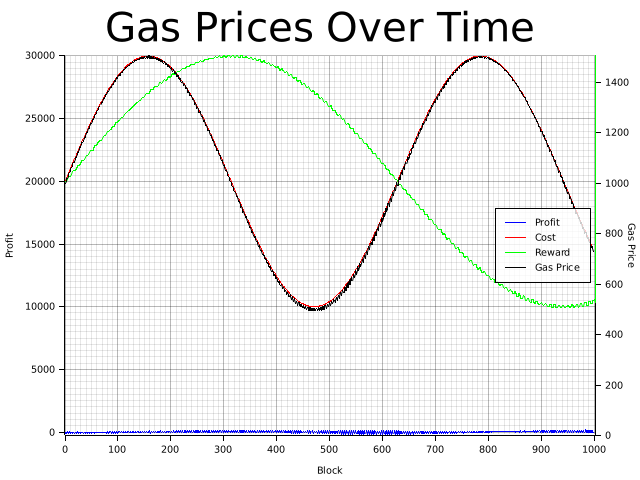
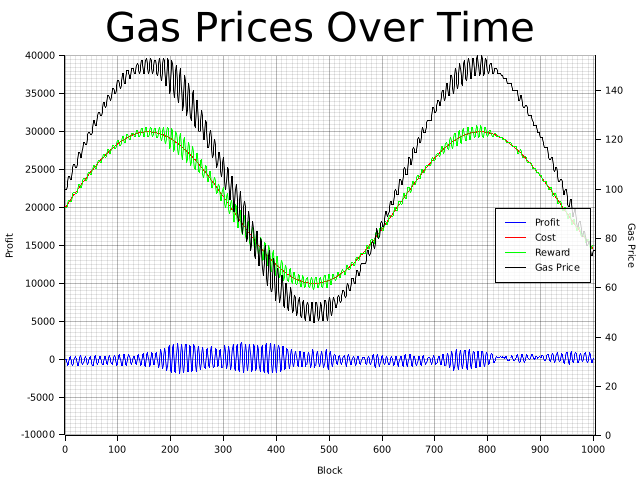
Add p value

Changed region(s): [[0.0312, 0.0938, 1.0, 0.9688], [0.0312, 0.0938, 0.0625, 0.125]]

diff --git a/crates/gas_price_testground/src/main.rs b/crates/gas_price_testground/src/main.rs
@@ -3,6 +3,7 @@ use std::cmp::max;
 struct Algorithm {
     amount: u64,
     min: u64,
+    p_value_factor: u64,
 }
 
 impl Algorithm {
@@ -15,12 +16,18 @@ impl Algorithm {
         capacity: u64,
     ) -> u64 {
         if total_da_recording_cost > total_production_reward {
-            old_gas_price + self.amount
+            let add =
+                (total_da_recording_cost - total_production_reward) / self.p_value_factor;
+            old_gas_price + add
         } else {
             if used > capacity / 2 {
-                old_gas_price + self.amount
+                todo!();
+            } else if total_production_reward > total_da_recording_cost {
+                let sub = (total_production_reward - total_da_recording_cost)
+                    / self.p_value_factor;
+                max(old_gas_price.saturating_sub(sub), self.min)
             } else {
-                max(old_gas_price.saturating_sub(self.amount), self.min)
+                old_gas_price
             }
         }
     }
@@ -29,9 +36,16 @@ impl Algorithm {
 fn main() {
     let amount = 1;
     let min = 10;
-    let algo = Algorithm { amount, min };
+    let p_value_factor = 300;
+    let algo = Algorithm {
+        amount,
+        min,
+        p_value_factor,
+    };
 
+    let gas_spent = 200;
     let simulation_size = 1_000;
+
     // Run simulation
     let da_recording_cost = (0u32..simulation_size)
         .map(|val| f64::try_from(val).unwrap() / 100.)
@@ -44,7 +58,6 @@ fn main() {
     let mut rewards = vec![];
     let mut total_cost = 0;
     let mut total_reward = 0;
-    let gas_spent = 200;
     // 50% capacity
     let used = gas_spent;
     let capacity = gas_spent * 2;
@@ -53,23 +66,21 @@ fn main() {
         let reward = gas_price * gas_spent;
         rewards.push(reward);
         total_reward += reward;
+        let total_profit = total_reward as i32 - total_cost as i32;
+        total_profits.push(total_profit);
         gas_price =
             algo.calculate_gas_price(gas_price, total_reward, total_cost, used, capacity);
         gas_prices.push(gas_price as i32);
-
-        let new_reward = gas_price * gas_spent;
-        rewards.push(new_reward);
-        total_reward += new_reward;
-        let total_profit = total_reward as i32 - total_cost as i32;
-        total_profits.push(total_profit);
     }
 
     // Plotting code starts here
     let root = BitMapBackend::new("gas_prices.png", (640, 480)).into_drawing_area();
     root.fill(&WHITE).unwrap();
 
-    let min = *total_profits.iter().min().unwrap();
-    let max = *total_profits.iter().max().unwrap();
+    // let min = *total_profits.iter().min().unwrap();
+    // let max = *total_profits.iter().max().unwrap();
+    let min = -10_000;
+    let max = 40_000;
 
     let mut chart = ChartBuilder::on(&root)
         .caption("Gas Prices Over Time", ("sans-serif", 50).into_font())
